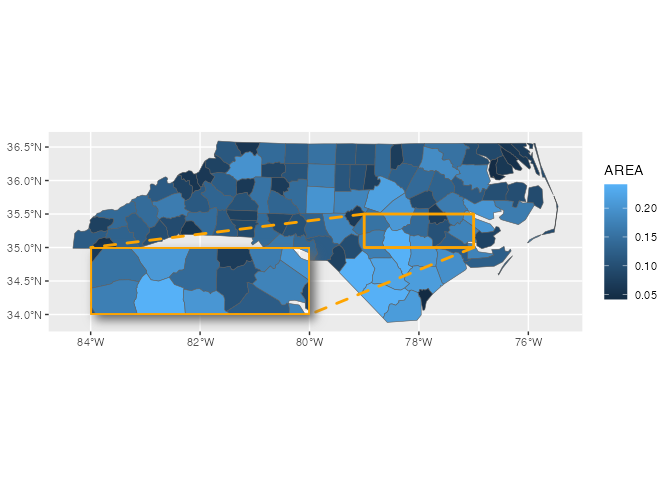
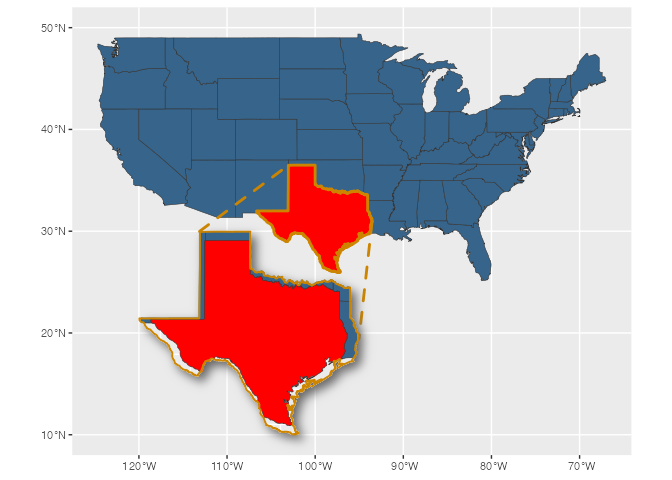
Fix an issue on old R. Cool new map in readme.

diff --git a/README.md b/README.md
@@ -117,23 +117,7 @@ ggpi +
 
 <img src="man/figures/README-example-faceting-1.png" width="100%" />
 
-## Maps (experimental)
-
-``` r
-nc <- sf::st_read(system.file("shape/nc.shp", package = "sf"), quiet = TRUE)
-ggpm <- ggplot(nc) +
-          geom_sf(aes(fill = AREA)) +
-          coord_sf(default_crs = sf::st_crs(4326))
-
-ggpm + geom_magnify(from = c(-79, 35, -77, 35.5),
-                    to = c(-84, 34, -80, 35), 
-                    colour = "orange", linewidth = 1, shadow = TRUE, 
-                    )
-```
-
-<img src="man/figures/README-example-map-1.png" width="100%" />
-
-## Magnify an arbitrary region (you guessed it, experimental)
+## Magnify an arbitrary region (experimental)
 
 ``` r
 
@@ -166,6 +150,30 @@ ggplot(starwars, aes(mass, height, color = species == "Human")) +
 ```
 
 <img src="man/figures/README-example-mask-grob-1.png" width="100%" />
+
+## Maps (experimental)
+
+``` r
+nc <- sf::st_read(system.file("shape/nc.shp", package = "sf"), quiet = TRUE)
+
+usa <- sf::st_as_sf(maps::map("state", fill=TRUE, plot =FALSE))
+
+ggpm <- ggplot(usa) +
+          geom_sf(aes(fill = ID == "texas"), colour = "grey20") +
+          coord_sf(default_crs = sf::st_crs(4326), ylim = c(10, 50)) + 
+          theme(legend.position = "none") +
+          scale_fill_manual(values = c("TRUE" = "red", "FALSE" = "steelblue4"))
+          
+
+texas <- usa[usa$ID == "texas",]
+texas <- sf::st_transform(texas, sf::st_crs(4326))
+texas <- sf::st_as_grob(sf::st_as_sfc(texas))
+ggpm + geom_magnify(from = texas,
+                    to = c(-120, 10, -95, 30), 
+                    shadow = TRUE, linewidth = 1, colour = "orange3")
+```
+
+<img src="man/figures/README-example-map-1.png" width="100%" />
 
 ## Tips and tricks
 
